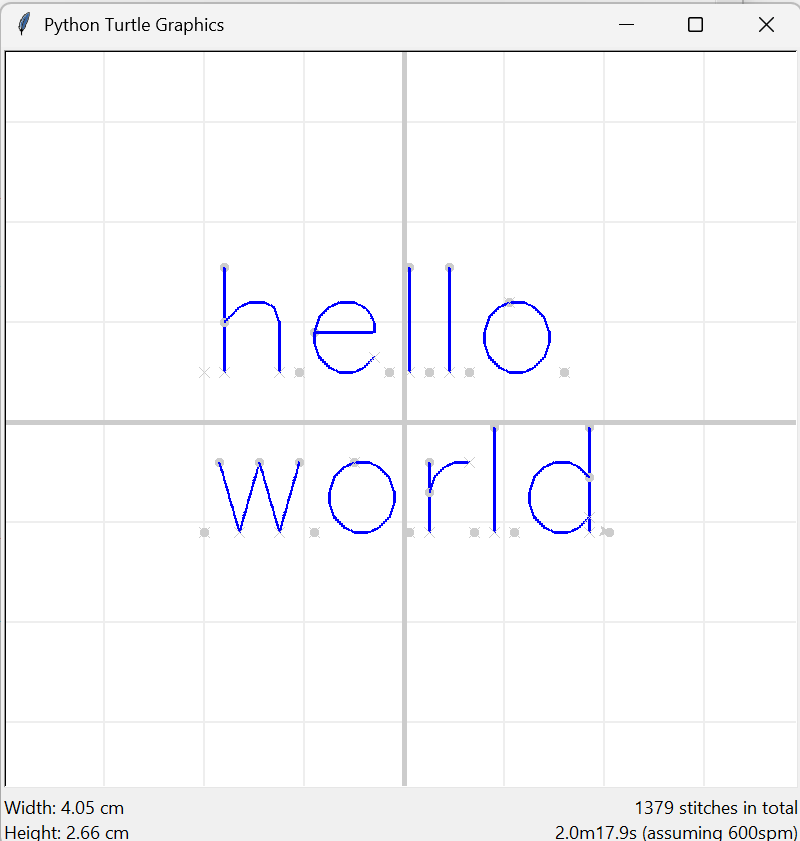
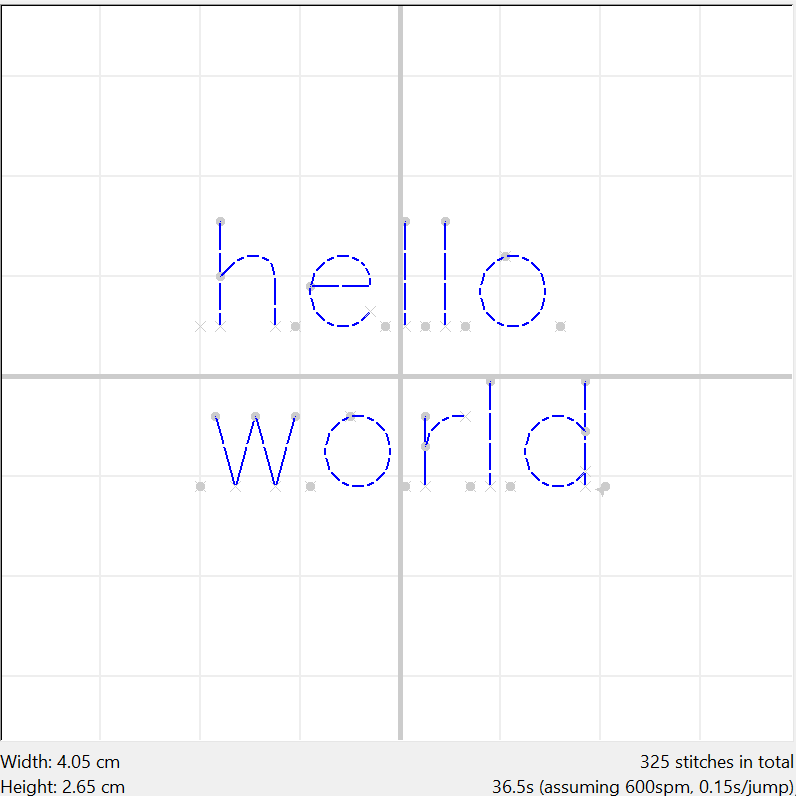
improve simplex font

Changed region(s): [[0.0, 0.0, 1.0, 1.0], [0.603, 0.9347, 1.0, 1.0]]

diff --git a/src/turtlethread/text_simplex.py b/src/turtlethread/text_simplex.py
@@ -5,14 +5,19 @@ from .stitches import SatinStitch, JumpStitch
 
 class SimplexLetterDrawer: # this one doesn't have an idea of "lettergap" because it's handled by the simplex font already 
     # this one also doesn't need context manager to clear font stuff anymore 
-    def __init__(self, turtle:Turtle, width=2, center=True, scale=5.0, newline_gap=32.0): 
+    def __init__(self, turtle:Turtle, bold=False, scale=5.0, newline_gap=32.0, triple_stitch_length=30, center=True, ): 
         # this can extend up to 25*scale units above and 7*scale units below 
         # rmbr that 100 units = 1 cm 
+        
         self.turtle = turtle 
-        self.width = width 
+        if isinstance(bold, bool): 
+            self.width = 20 * int(bold)
+        else: 
+            self.width = bold 
         self.center = center 
         self.scale = scale 
         self.newline_gap = newline_gap 
+        self.triple_stitch_length = triple_stitch_length
 
     simplex = [ # [95][112]
         [0,16, # Ascii 32 
@@ -587,22 +592,25 @@ class SimplexLetterDrawer: # this one doesn't have an idea of "lettergap" becaus
         -1,-1,-1,-1,-1,-1,-1,-1,-1,-1,-1,-1,-1,-1,-1,-1,-1,-1,],
     ]
 
-    def draw_string(self, s, width=None, center=None, scale=None, newline_gap=None): 
+    def draw_string(self, s, width=None, center=None, scale=None, newline_gap=None, triple_stitch_length=None): 
         startx, starty = self.turtle.pos() 
         if newline_gap is None: 
             newline_gap = self.newline_gap
+        if triple_stitch_length is None: 
+            triple_stitch_length = self.triple_stitch_length
         for c in s: 
             if c == '\n': 
                 # goto next pos 
                 with self.turtle.jump_stitch(): 
                     self.turtle.goto(startx, starty + newline_gap*self.scale)
                 continue 
-            self.draw_letter(c, width, center, scale=None) 
+            self.draw_letter(c, width, center, scale=None, triple_stitch_length=triple_stitch_length) 
 
-    def draw_letter(self, c, width=None, center=None, scale=None):
+    def draw_letter(self, c, width=None, center=None, scale=None, triple_stitch_length=None):
         if width is None: width = self.width 
         if center is None: center = self.center  
         if scale is None: scale = self.scale 
+        if triple_stitch_length is None: triple_stitch_length = self.triple_stitch_length 
         
         i = ord(c)-32 
         if i >= 95: raise ValueError("Cannot draw character {} (ascii {})".format(c, i+32))
@@ -636,7 +644,10 @@ class SimplexLetterDrawer: # this one doesn't have an idea of "lettergap" becaus
                         raise RuntimeError("DRAW SimplexLetterDrawer.simplex LETTER STARTED WITH PENUP? ERROR") 
                 else: 
                     if state == -1: 
-                        self.turtle.start_satin_stitch(width, center)
+                        if width==0: 
+                            self.turtle.start_triple_stitch(triple_stitch_length)
+                        else: 
+                            self.turtle.start_satin_stitch(width, center)
                         state=1
                     self.turtle.goto(startx+x*scale, starty-y*scale) 
                     if state == 0: 

diff --git a/tests/human_test_cases/test_simplex_font.py b/tests/human_test_cases/test_simplex_font.py
@@ -5,7 +5,8 @@ import turtlethread
 t = turtlethread.Turtle() 
 t.goto(-200, -50)
 
-sld = turtlethread.SimplexLetterDrawer(t) 
+#sld = turtlethread.SimplexLetterDrawer(t) # can set triple_stitch_length, as this uses triple stitch 
+sld = turtlethread.SimplexLetterDrawer(t, bold=True, scale=7, newline_gap=40) 
 sld.draw_string("hello\nworld") 
 
 t.visualise(skip=True, check_density=False) 

diff --git a/docs/source/intermediate/text.rst b/docs/source/intermediate/text.rst
@@ -17,13 +17,27 @@ Its output should look like this:
 
 .. image:: ../../_static/figures/text/draw_simplex_helloworld.png
 
-You can set initialize ``SimplexLetterDrawer(turtle, width, center, scale, newline_gap)```
+We can also set some other parameters: 
 
-- ``width`` and ``center`` are satin stitch parameters (default 2.0 and True) 
+.. literalinclude:: text/eg_simplex_bold.py
+    :language: python
+    :linenos:
+    :emphasize-lines: 6
+
+.. image:: ../../_static/figures/text/draw_simplex_bold_helloworld.png
+
+You can set initialize ``SimplexLetterDrawer(turtle, bold, scale, newline_gap, triple_stitch_length, center)```
+
+- if ``bold`` is ``False`` (default), uses triple stitch; else, uses satin stitch (default width 20; setting ``bold`` to a nonzero integer also sets this width). 
 
 - ``scale`` decides how large it is (default 5.0)
 
 - ``newline_gap`` decides how far down to go when going to a new line (default 32.0) 
+
+- ``triple_stitch_length`` is a parameter for triple stitch (default 30) 
+
+- ``center`` is satin stitch parameters (default True) 
+
 
 
 Using the LetterDrawer